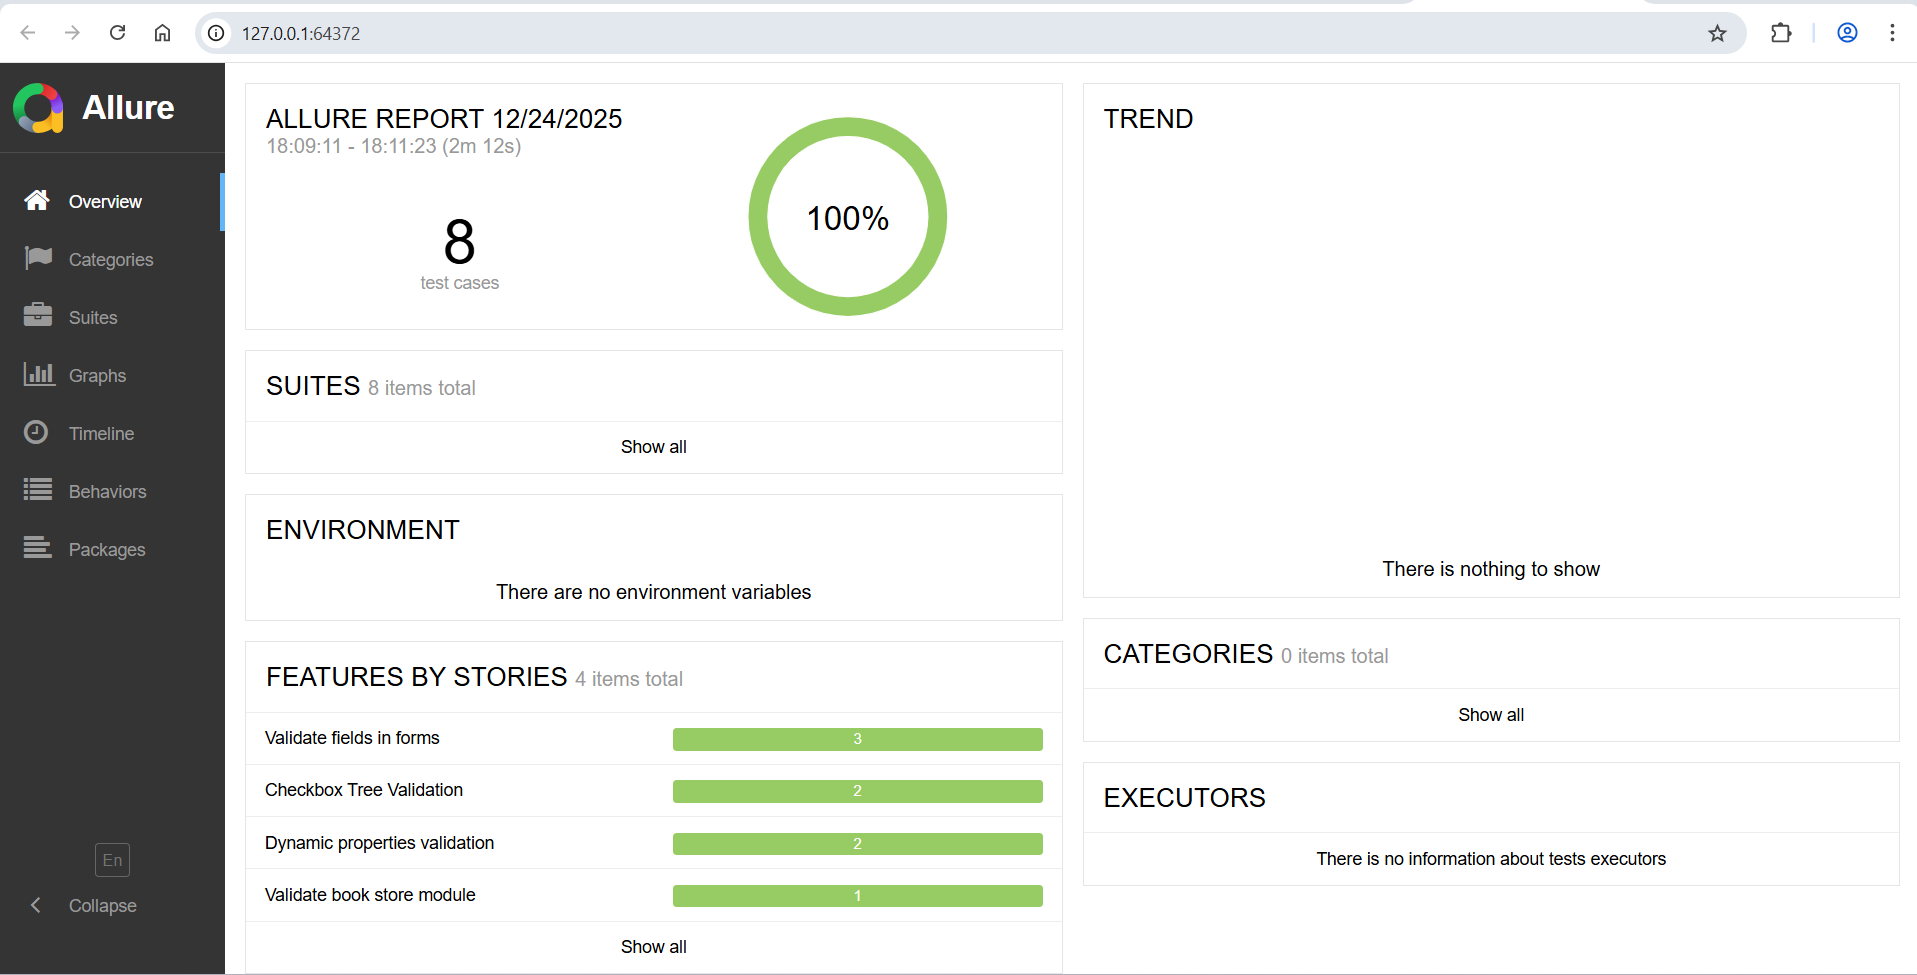
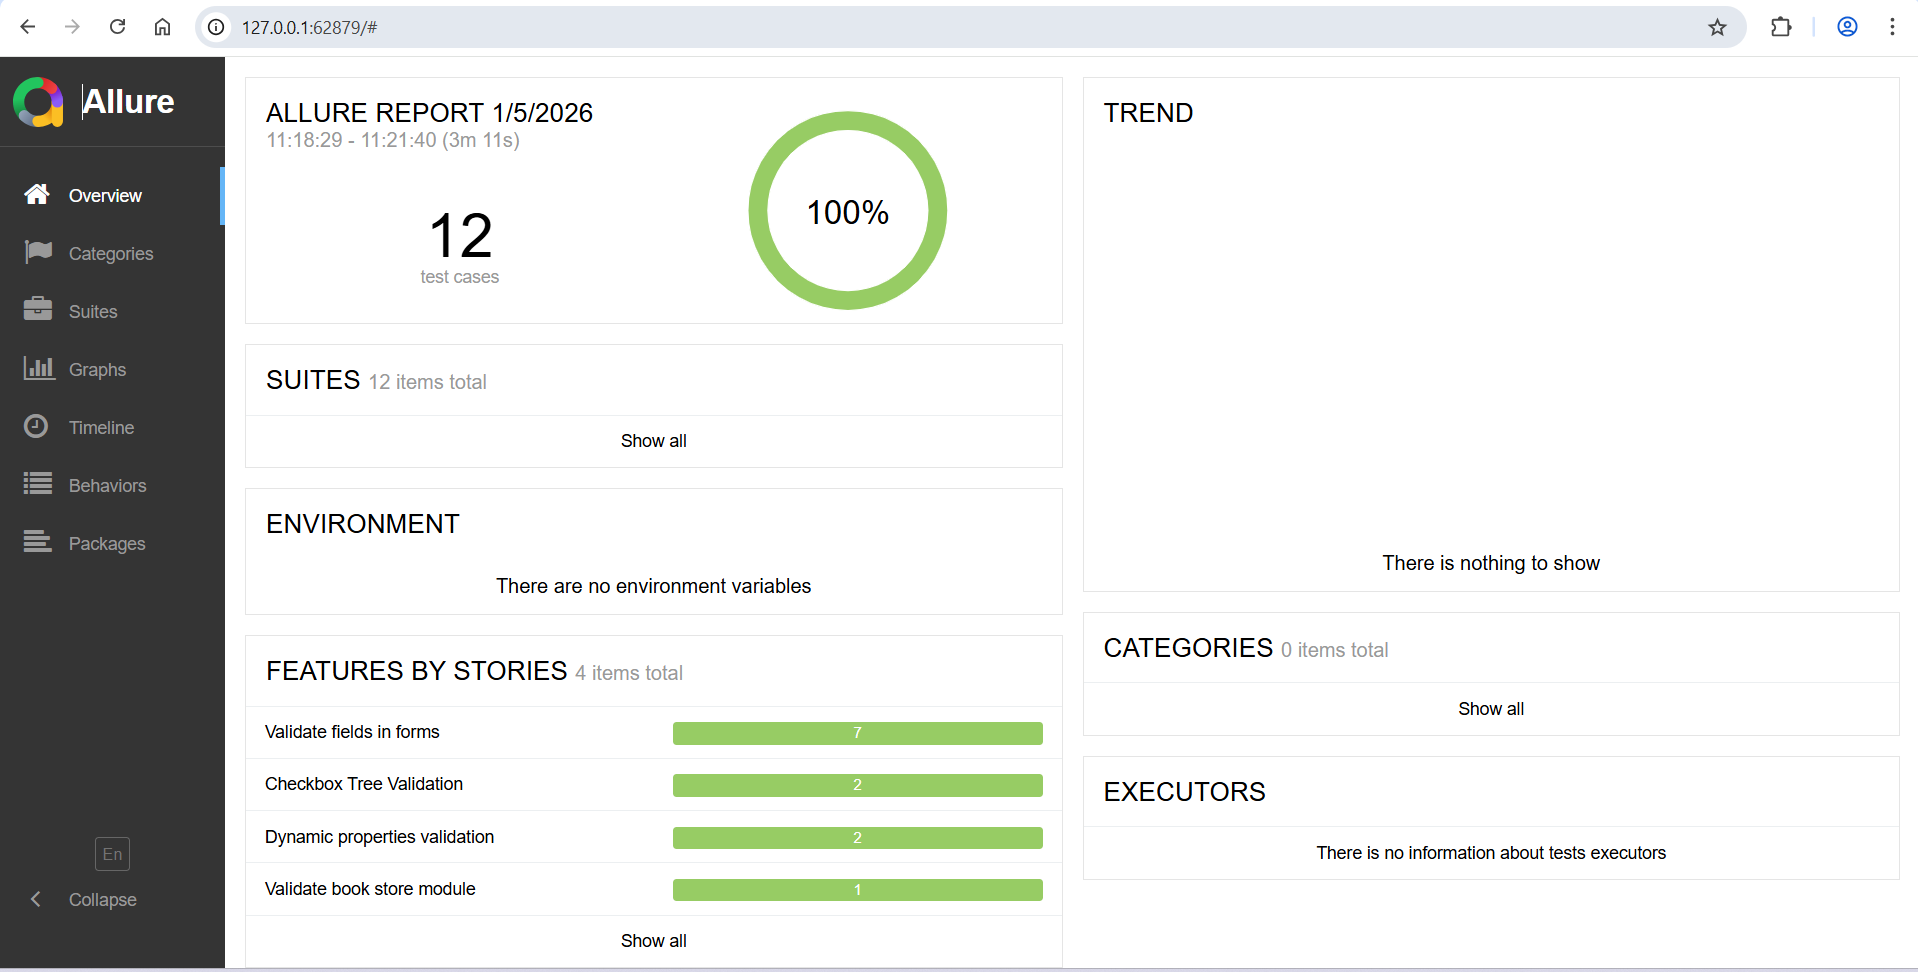
Updated Screenshot

diff --git a/features/environment.py b/features/environment.py
@@ -3,6 +3,7 @@ import datetime
 import json
 import logging
 import re
+import shutil
 import allure
 from selenium import webdriver
 from selenium.webdriver.chrome.options import Options
@@ -27,6 +28,13 @@ def before_all(context):
 
     # Project root
     context.base_dir = os.getcwd()
+
+    # ---------- CLEAN OLD ALLURE DATA ----------
+    for folder in ["allure-results", "allure-report"]:
+        folder_path = os.path.join(context.base_dir, folder)
+        if os.path.exists(folder_path):
+            shutil.rmtree(folder_path)
+            logger.info(f"Deleted old {folder}")
 
     # ---------- ALLURE RESULTS ----------
     context.allure_results_dir = os.path.join(context.base_dir, "allure-results")
